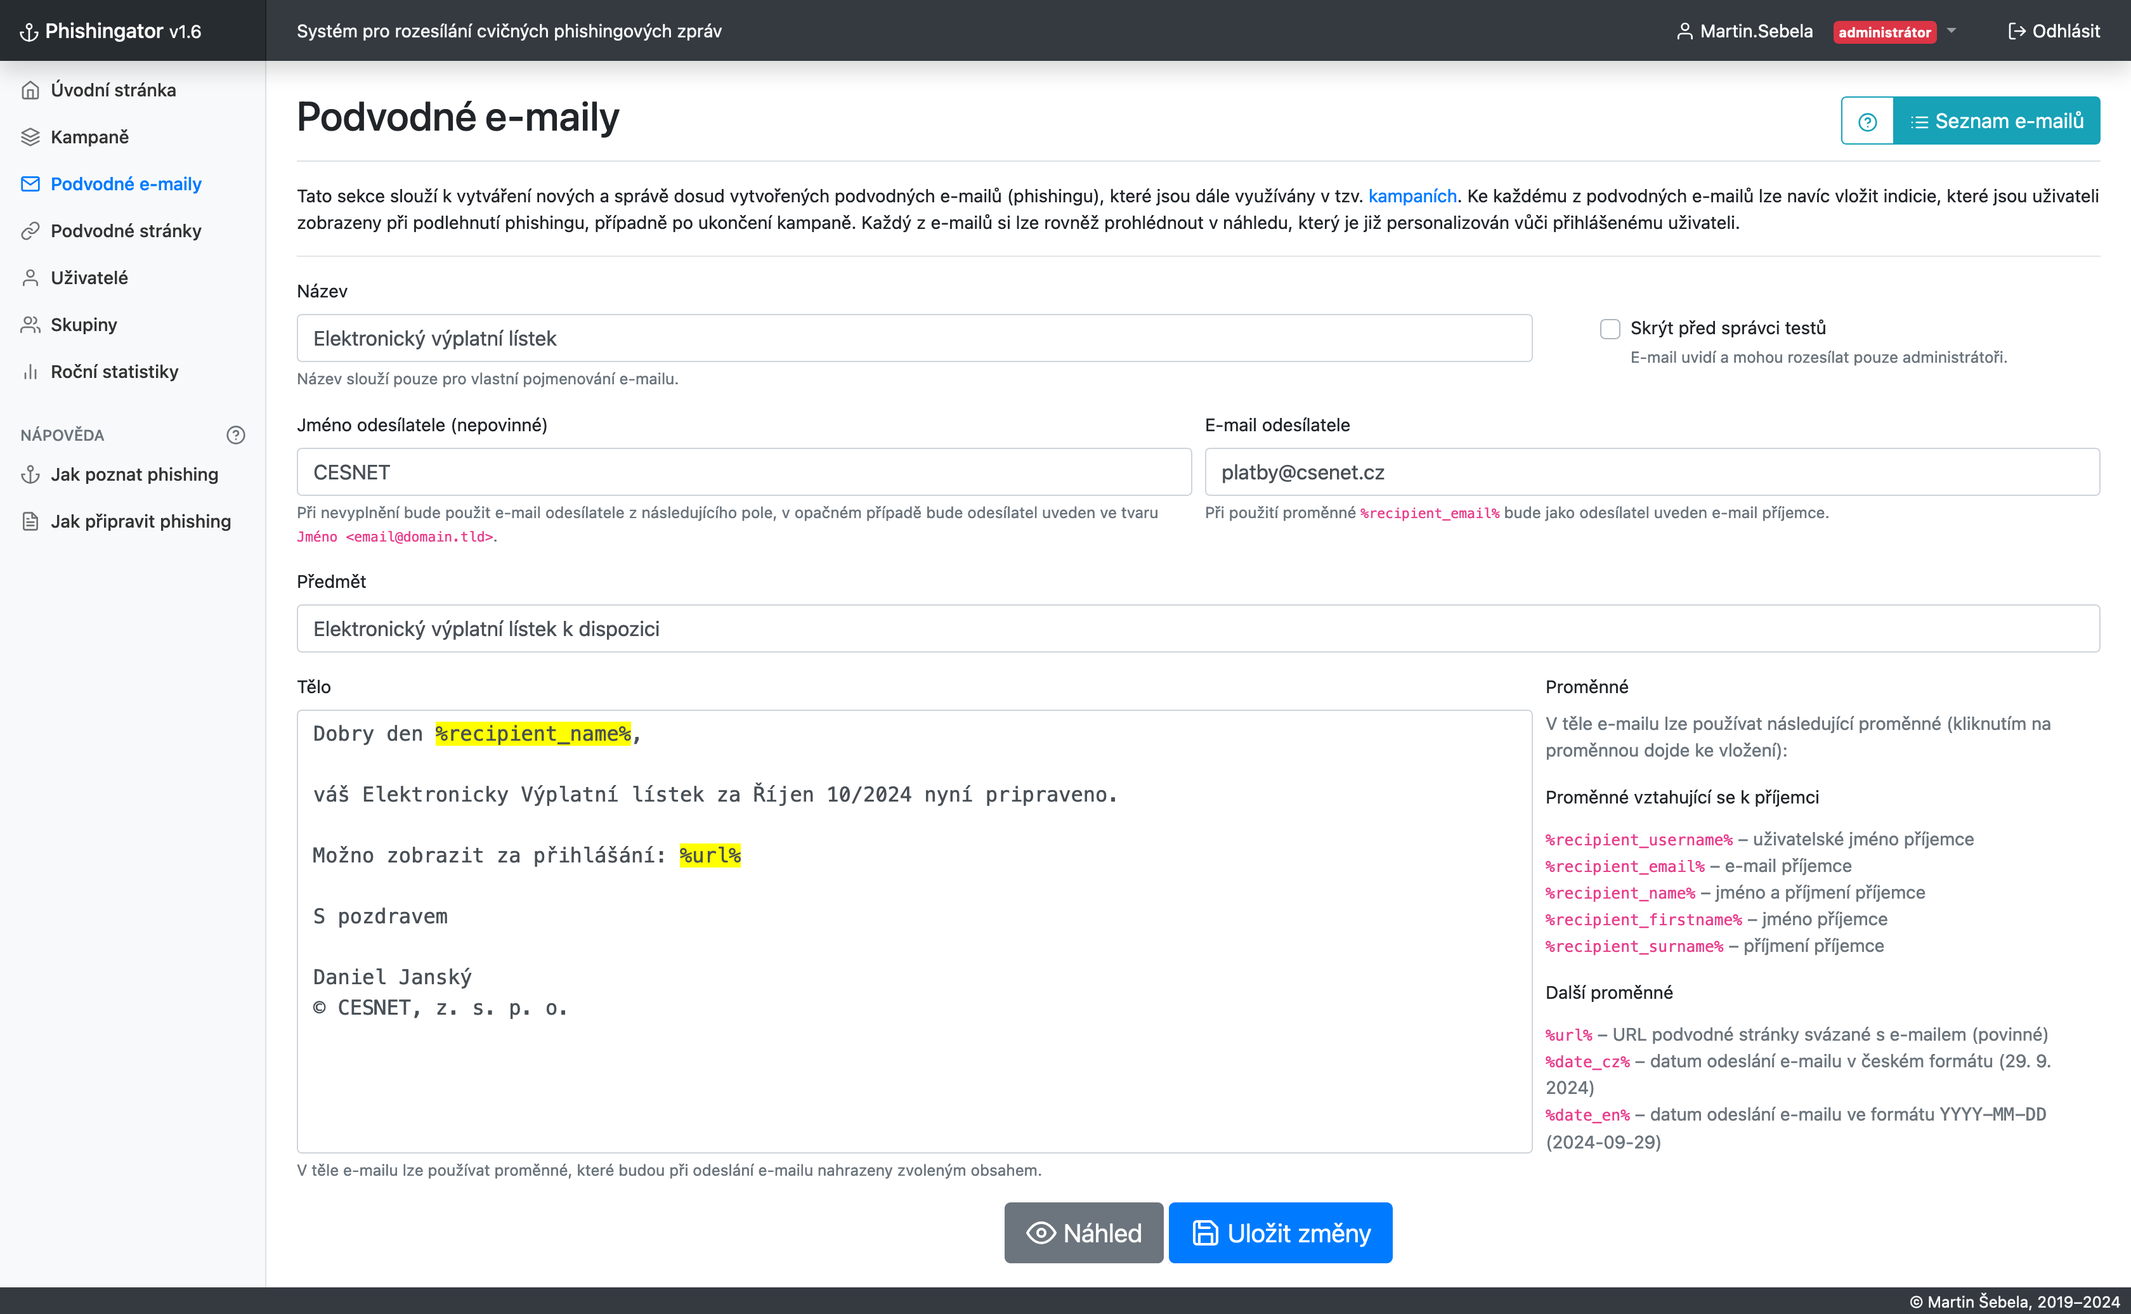
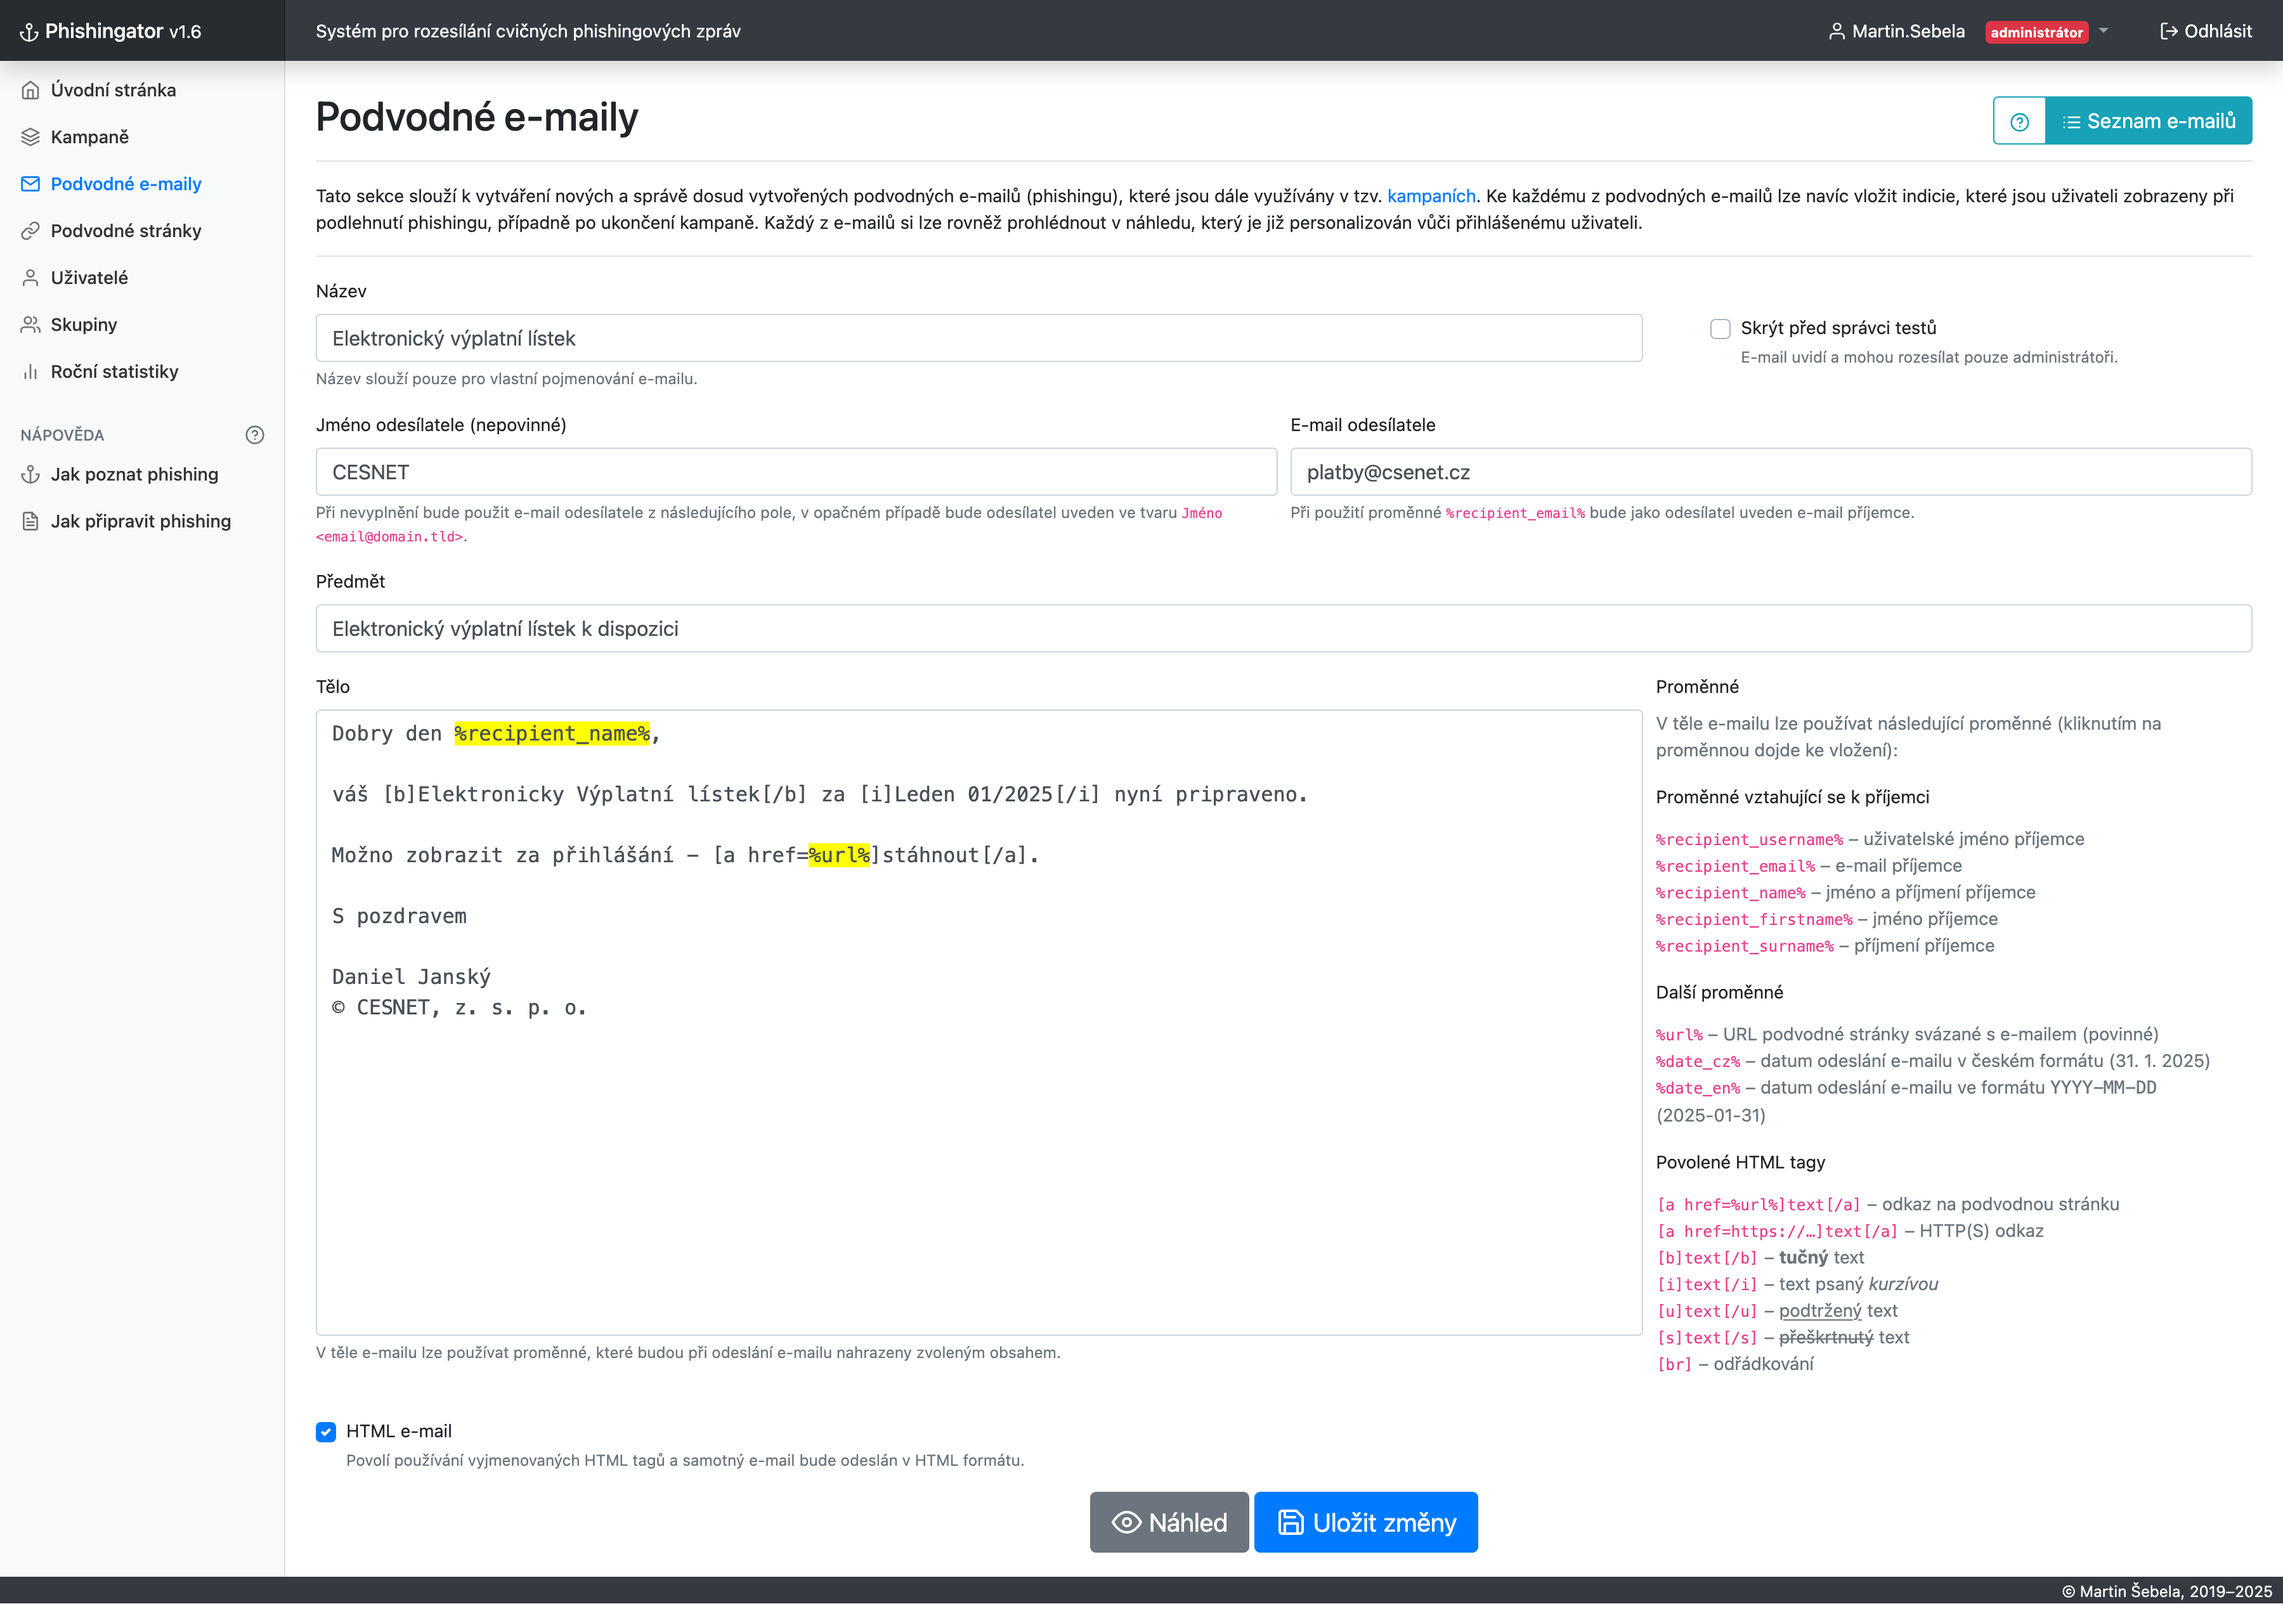
Updated screenshots and captions

diff --git a/SCREENSHOTS.md b/SCREENSHOTS.md
@@ -6,9 +6,9 @@ Následující screenshoty z Phishingatoru zobrazují **proces tvorby phishingov
 
 ## 1. Vytvoření podvodného e-mailu
 
-Ve Phishingatoru se cvičné podvodné e-maily vytvářejí podobně jako v e-mailovém klientovi – tj. stačí vyplnit **jméno odesílatele**, jeho **e-mail** a samozřejmě **obsah zasílané zprávy**.
+Ve Phishingatoru se cvičné podvodné e-maily vytvářejí podobně jako v e-mailovém klientovi – tj. stačí vyplnit **e-mail odesílatele**, případně **jméno odesílatele**, **předmět** a samozřejmě **obsah zasílané zprávy**.
 
-Phishingový e-mail lze navíc **personalizovat vůči konkrétnímu adresátovi**, a to použitím proměnných (na screenshotu vyznačeny žlutým podbarvením), které budou při odeslání e-mailu nahrazeny skutečným obsahem – například jménem a příjmením příjemce, jeho uživatelským jménem nebo třeba e-mailovou adresou.
+Phishingový e-mail lze navíc **personalizovat vůči konkrétnímu adresátovi**, a to použitím proměnných (na screenshotu vyznačeny žlutým podbarvením), které budou při odeslání e-mailu nahrazeny skutečným obsahem – například jménem a příjmením příjemce, jeho uživatelským jménem nebo třeba e-mailovou adresou. V těle e-mailu lze zároveň používat i některé **HTML tagy**, a e-mail tak následně odeslat v HTML formátu.
 
 ![Vytvoření podvodného e-mailu](doc/images/01-phishing-training-email.png)
 
